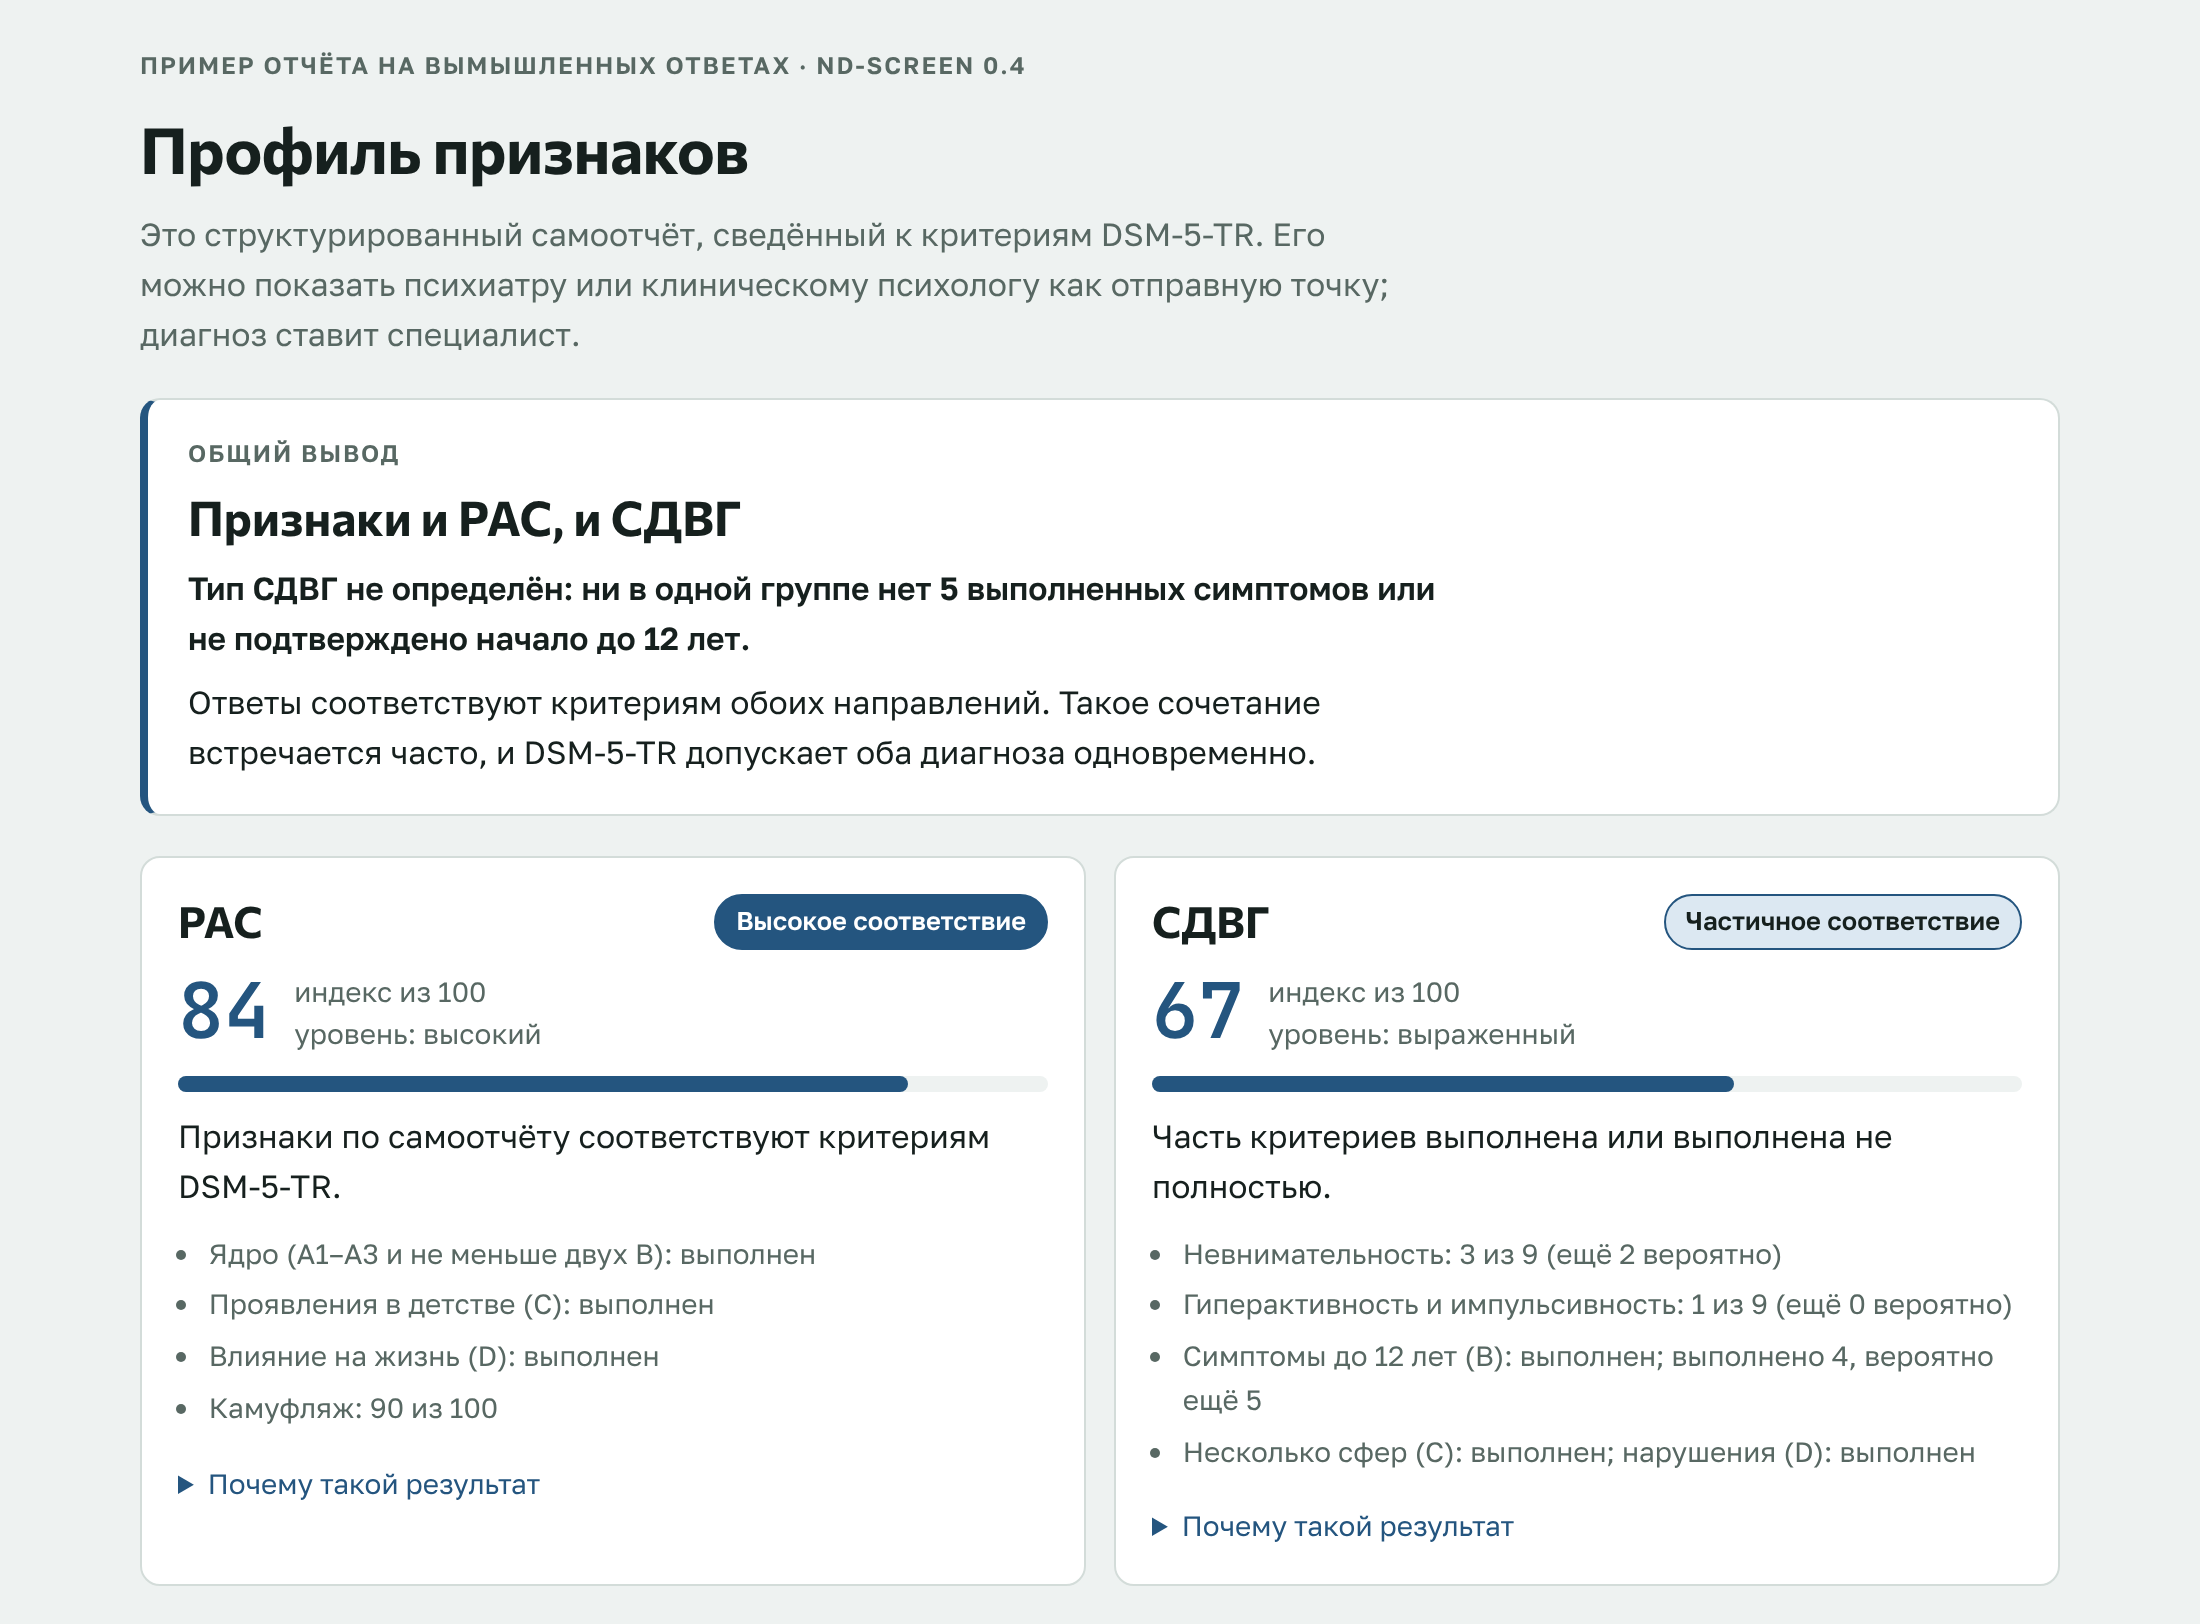
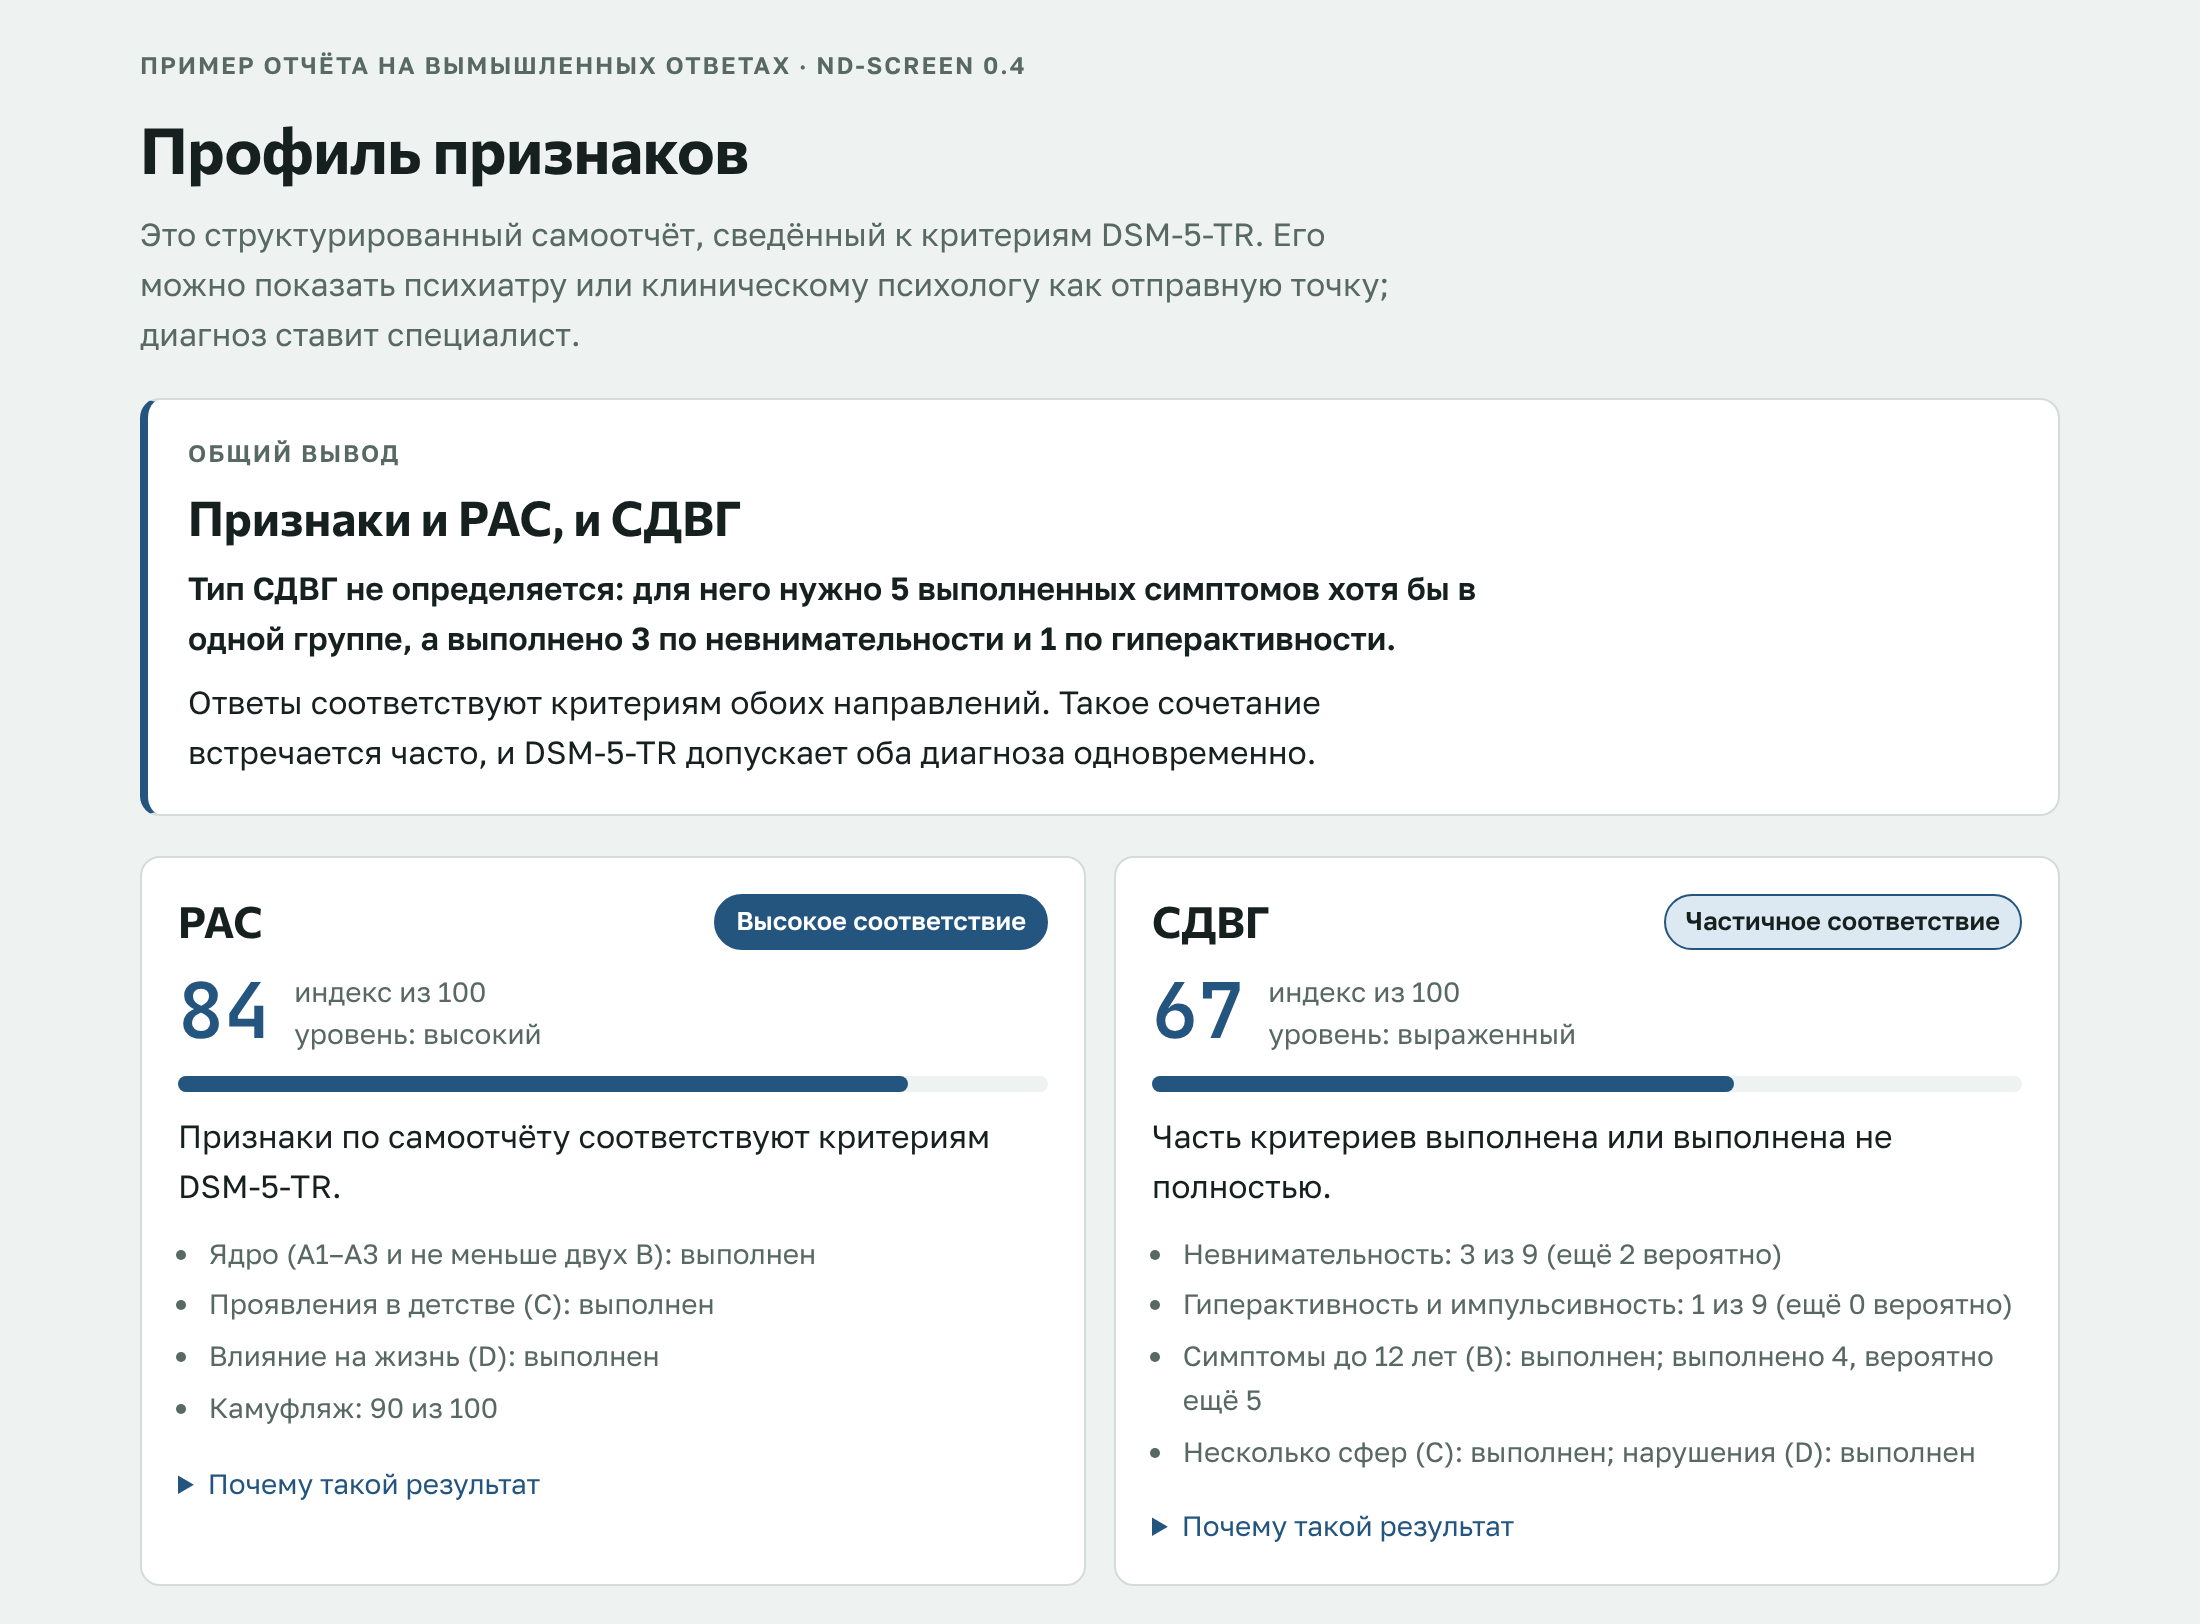
Explain why the ADHD presentation is not determined
Claude-Session: https://claude.ai/code/session_01Jy1v1oN3Y2bKLuoMN7sQ5k

Changed region(s): [[0.0927, 0.3387, 0.68, 0.4002]]

diff --git a/dist/scoring.js b/dist/scoring.js
@@ -567,7 +567,9 @@ ND.scoring = (function () {
       "преимущественно невнимательная": "преимущественно невнимательный: выражена невнимательность, гиперактивности и импульсивности до критерия не хватает",
       "преимущественно гиперактивно-импульсивная": "преимущественно гиперактивно-импульсивный: выражены гиперактивность и импульсивность, невнимательности до критерия не хватает" };
     const adhdType = h !== "strong" ? null : E.adhd.presentation ? `Тип СДВГ: ${TYPE[E.adhd.presentation]}.`
-      : `Тип СДВГ не определён: ни в одной группе нет ${ND.PARAMS.adhdAdult} выполненных симптомов или не подтверждено начало до 12 лет.`;
+      : Math.max(E.adhd.nA1, E.adhd.nA2) < ND.PARAMS.adhdAdult
+        ? `Тип СДВГ не определяется: для него нужно ${ND.PARAMS.adhdAdult} выполненных симптомов хотя бы в одной группе, а выполнено ${E.adhd.nA1} по невнимательности и ${E.adhd.nA2} по гиперактивности.`
+        : "Тип СДВГ не определяется: по ответам не подтверждено начало до 12 лет.";
     if (atLeastProb(E.adhd.core) && E.adhd.B === ST.NO)
       text += " Симптомы СДВГ есть сейчас, но по ответам их не было до 12 лет. DSM-5-TR требует начала в детстве, поэтому сначала стоит проверить другие причины: тревогу, депрессию, сон, перегрузку.";
     if (atLeastProb(E.asd.core) && E.asd.C === ST.NO)

diff --git a/src/scoring.js b/src/scoring.js
@@ -567,7 +567,9 @@ ND.scoring = (function () {
       "преимущественно невнимательная": "преимущественно невнимательный: выражена невнимательность, гиперактивности и импульсивности до критерия не хватает",
       "преимущественно гиперактивно-импульсивная": "преимущественно гиперактивно-импульсивный: выражены гиперактивность и импульсивность, невнимательности до критерия не хватает" };
     const adhdType = h !== "strong" ? null : E.adhd.presentation ? `Тип СДВГ: ${TYPE[E.adhd.presentation]}.`
-      : `Тип СДВГ не определён: ни в одной группе нет ${ND.PARAMS.adhdAdult} выполненных симптомов или не подтверждено начало до 12 лет.`;
+      : Math.max(E.adhd.nA1, E.adhd.nA2) < ND.PARAMS.adhdAdult
+        ? `Тип СДВГ не определяется: для него нужно ${ND.PARAMS.adhdAdult} выполненных симптомов хотя бы в одной группе, а выполнено ${E.adhd.nA1} по невнимательности и ${E.adhd.nA2} по гиперактивности.`
+        : "Тип СДВГ не определяется: по ответам не подтверждено начало до 12 лет.";
     if (atLeastProb(E.adhd.core) && E.adhd.B === ST.NO)
       text += " Симптомы СДВГ есть сейчас, но по ответам их не было до 12 лет. DSM-5-TR требует начала в детстве, поэтому сначала стоит проверить другие причины: тревогу, депрессию, сон, перегрузку.";
     if (atLeastProb(E.asd.core) && E.asd.C === ST.NO)
